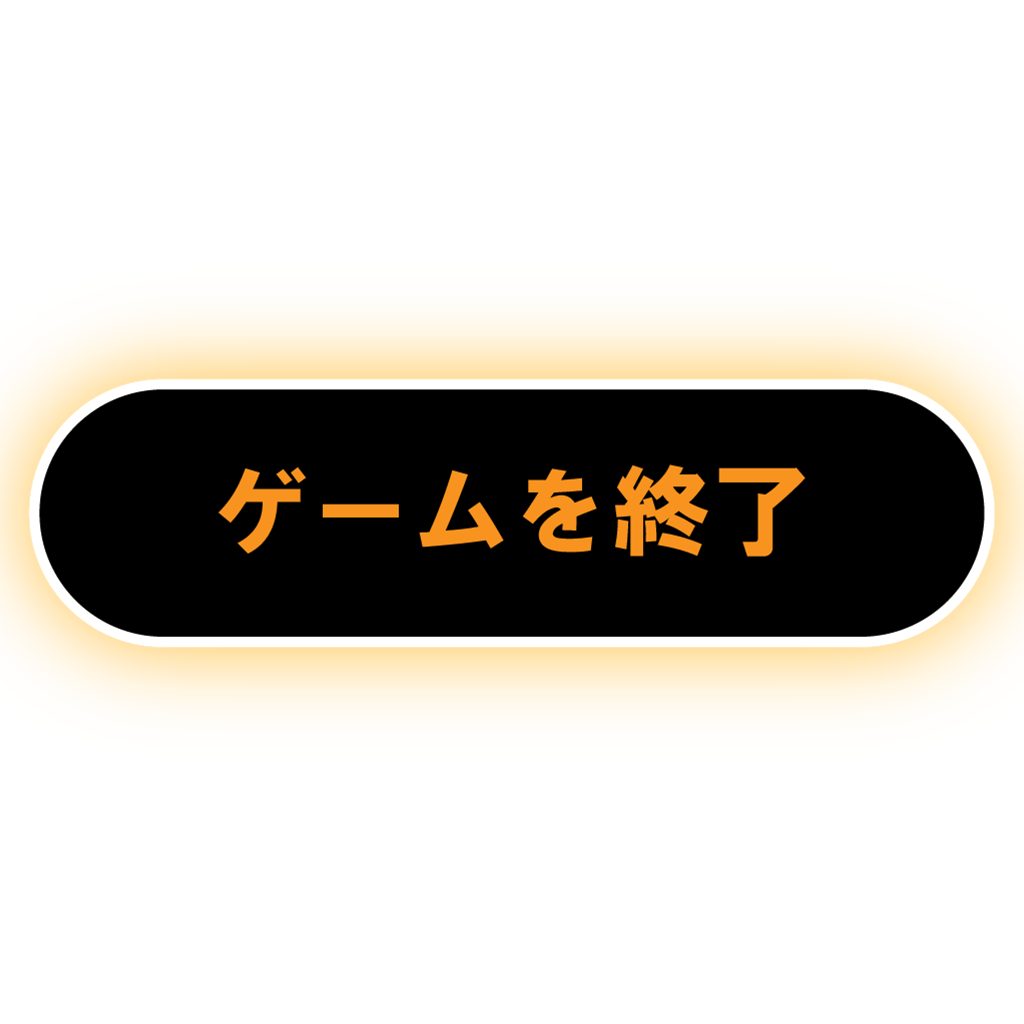
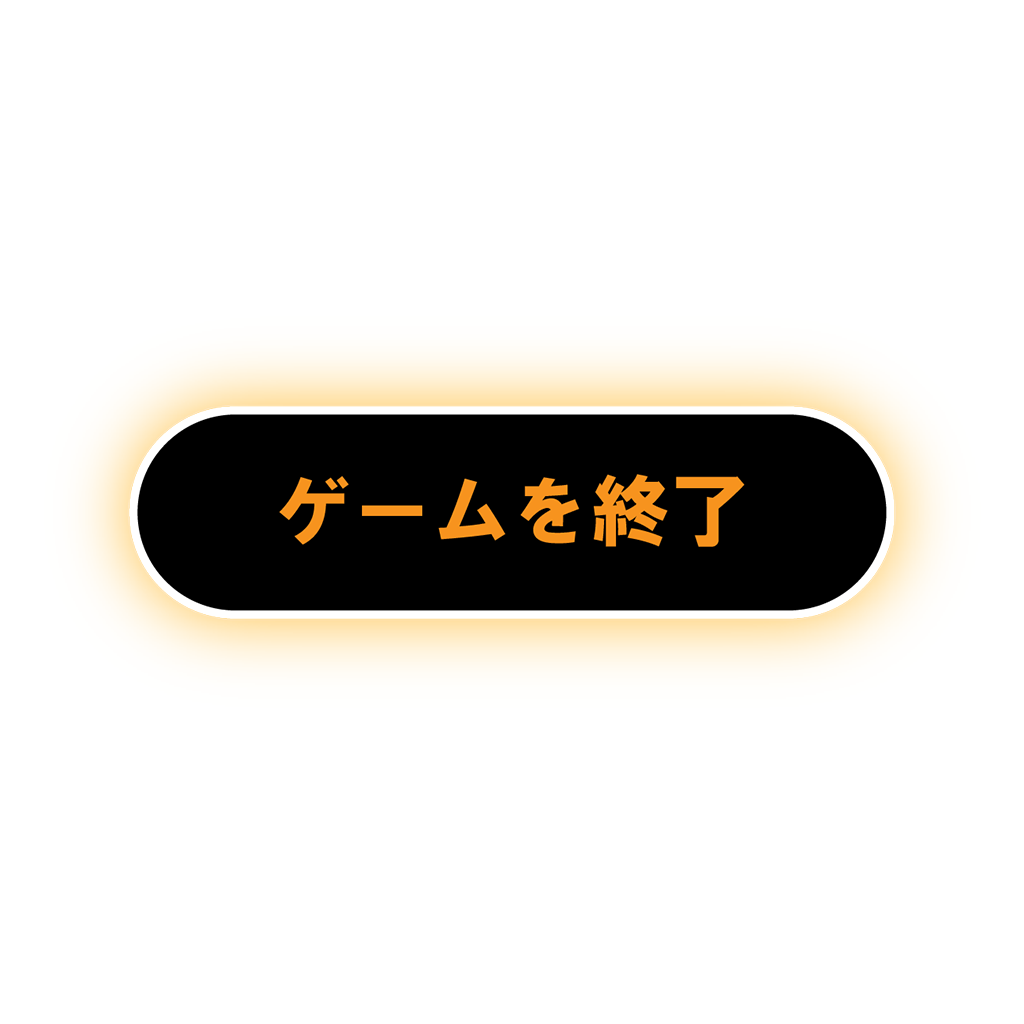
[Fix]タイトルシーンの表示を修正

Changed region(s): [[0.0, 0.3125, 1.0, 0.6875], [0.2188, 0.4375, 0.7812, 0.5625]]

diff --git a/Assets/Scripts/Scene/OtherScene/TitleImg.cs b/Assets/Scripts/Scene/OtherScene/TitleImg.cs
@@ -1,0 +1,28 @@
+using System.Collections;
+using System.Collections.Generic;
+using UnityEngine;
+
+public class TitleImg : MonoBehaviour
+{
+    public Vector3 step;
+    bool isZoom;
+    RectTransform rect;
+
+    private void Start()
+    {
+        rect = GetComponent<RectTransform>();
+    }
+
+    private void Update()
+    {
+        if (isZoom)
+        {
+            rect.position += step * Time.deltaTime;
+        }
+    }
+
+    public void Zoom()
+    {
+        isZoom = true;
+    }
+}
